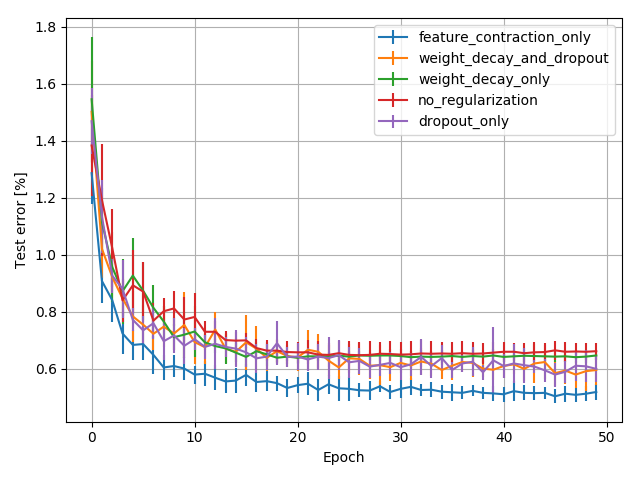
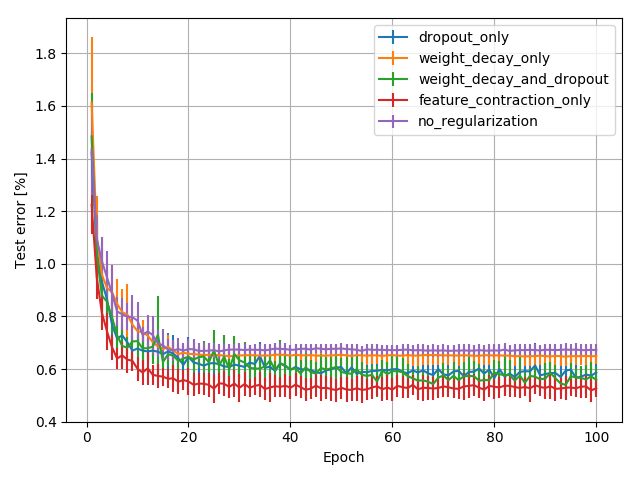
Updated test error curve

diff --git a/modules/visualization.py b/modules/visualization.py
@@ -11,7 +11,7 @@ def plot_results(results):
 
         mean = 100-mean
 
-        plt.errorbar(range(len(mean)), mean, yerr=std, label=exp_name)
+        plt.errorbar(range(1,len(mean)+1), mean, yerr=std, label=exp_name)
 
     plt.ylabel("Test error [%]")
     plt.xlabel("Epoch")

diff --git a/main.py b/main.py
@@ -57,7 +57,7 @@ def run_all_experiments(
 
 if __name__ == '__main__':
     results = run_all_experiments(
-        epochs=50,
+        epochs=100,
         number_runs=10,
         batch_size=32,
         parallel_processes=5,
